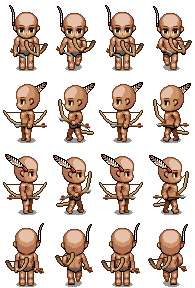
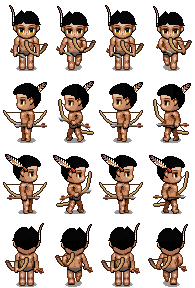
update sprite, tribe and indoors scenarios

diff --git a/readme.md b/readme.md
@@ -4,10 +4,10 @@ Breve descrição...
 
 ## Todo List:
 - Tribe:
-    - Tempo
-    - Bloquear passagem ponte
+    - ~~Tempo~~
+    - ~~Bloquear passagem ponte~~
 - Indoors:
-    - Parar movimentação boneco
+    - ~~Parar movimentação boneco~~
     - Setar diálogos corretos
     - Liberar HUD com vida
 - City:
